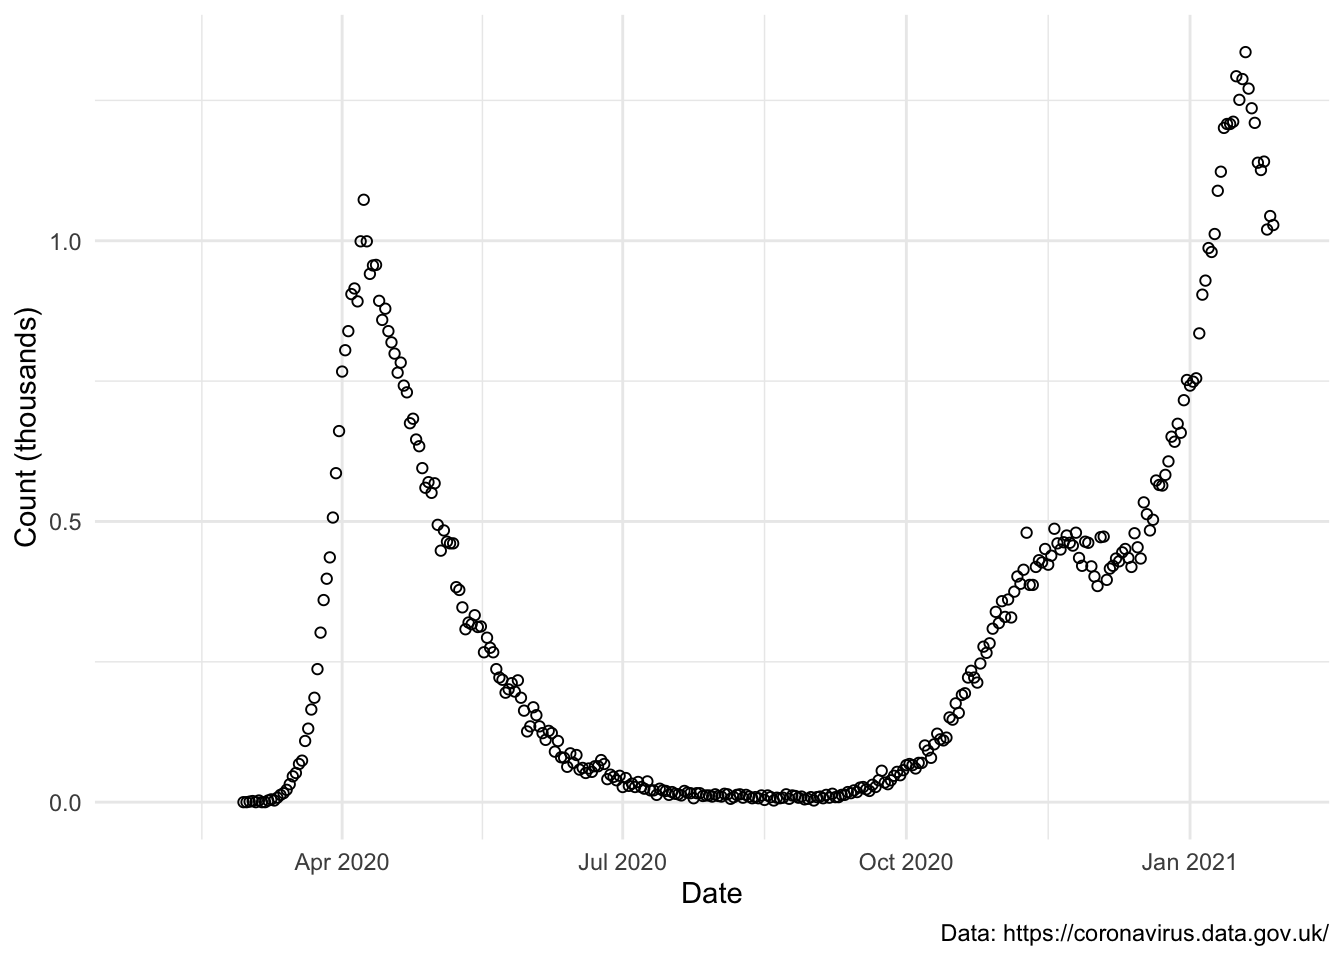
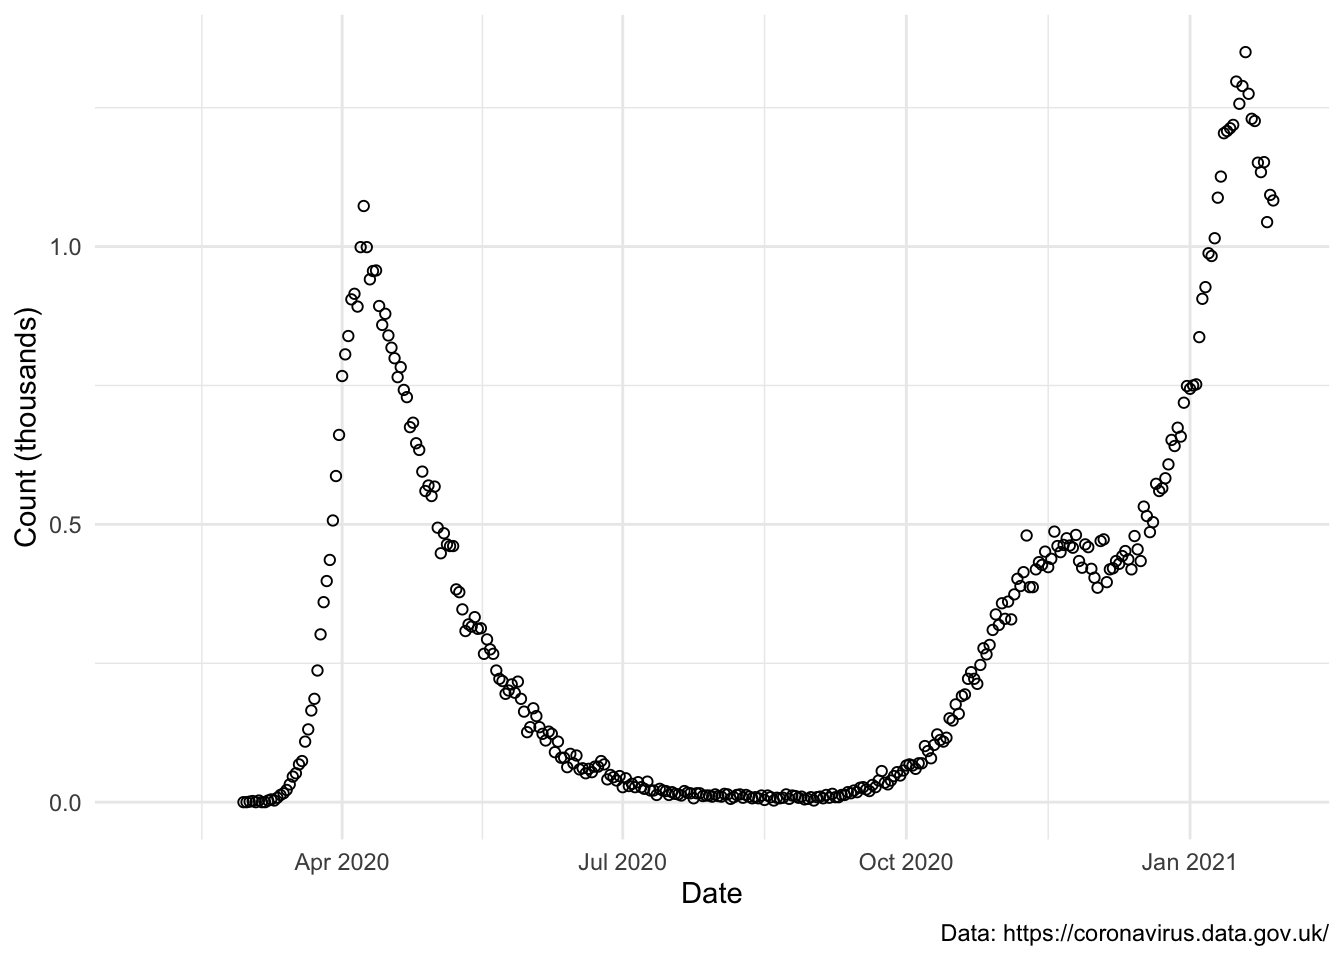
Correct typos in sonify post

diff --git a/content/post/2021-02-02-sonify-covid.html b/content/post/2021-02-02-sonify-covid.html
@@ -13,8 +13,7 @@ tags:
 draft: no
 ---
 
-<script src="/rmarkdown-libs/jquery/jquery.min.js"></script>
-<script src="/rmarkdown-libs/elevate-section-attrs/elevate-section-attrs.js"></script>
+<script src="/rmarkdown-libs/header-attrs/header-attrs.js"></script>
 
 
 <div class="figure">
@@ -64,19 +63,19 @@ range(data$date)</code></pre>
 <p>I read this into R as a <code>data.frame</code> object with one row per day.</p>
 <pre class="r"><code>tail(data[, c(1, 5:8)])</code></pre>
 <pre><code>##          date newCasesBySpecimenDate newDeaths28DaysByDeathDate newAdmissions
-## 13 2021-01-23                  21841                       1139          3098
-## 12 2021-01-24                  17190                       1126          3107
-## 11 2021-01-25                  29879                       1141          2917
-## 10 2021-01-26                  27033                       1020          3127
-## 9  2021-01-27                  25709                       1044          3043
-## 8  2021-01-28                  24049                       1028          3029
+## 18 2021-01-23                  21851                       1151          3100
+## 17 2021-01-24                  17191                       1134          3109
+## 16 2021-01-25                  29976                       1152          2925
+## 15 2021-01-26                  27036                       1044          3136
+## 14 2021-01-27                  25720                       1093          3050
+## 13 2021-01-28                  24092                       1083          3039
 ##    newVirusTests
-## 13        484485
-## 12        412204
-## 11        542893
-## 10        596845
-## 9         771710
-## 8         753031</code></pre>
+## 18        484485
+## 17        412204
+## 16        542893
+## 15        596845
+## 14        771710
+## 13        753031</code></pre>
 <p>How quickly a year goes.</p>
 </div>
 <div id="av-functions" class="section level1">
@@ -105,7 +104,7 @@ purrr::walk(names(data[5:8]), sonify_covid)</code></pre>
 </div>
 <div id="visual" class="section level2">
 <h2>Visual</h2>
-<p>The plots are going to be intentionally sparse because the focus of the post is the <em>sound</em> the data make. You’ll be able to follow how the visuals map to the sound The function takes a COVID-19 variable from our dataset and plots it over time with {gpplot2}.</p>
+<p>I’m including plots so you can follow how the visuals map to the sound. The plots are going to be intentionally sparse because the focus of the post is the <em>sound</em> the data make. The function takes a COVID-19 variable from our dataset and plots it over time with {ggplot2}.</p>
 <pre class="r"><code>library(ggplot2)  # attach plotting package
 
 plot_covid &lt;- function(y) {
@@ -122,7 +121,7 @@ plot_covid &lt;- function(y) {
     theme_minimal()
   
 }</code></pre>
-<p>You can then pass in the variable like <code>plot_covid(newAdmissions)</code>, although I’ve hidden this code in the next section. I also used the new <code>fig.alt</code> chunk option in R Markdown to provide a short piece of alt text to describe the plot content.</p>
+<p>You can then pass in the variable like <code>plot_covid(newAdmissions)</code>, although I’ve hidden this code in the next section.</p>
 </div>
 </div>
 <div id="sonified" class="section level1">
@@ -138,7 +137,7 @@ plot_covid &lt;- function(y) {
 <source src="/output/sonify-covid/newCasesBySpecimenDate.wav" type="audio/wav">
 </audio>
 </html>
-<p><img src="/post/2021-02-02-sonify-covid_files/figure-html/unnamed-chunk-6-1.png" width="672" /></p>
+<p><img src="/post/2021-02-02-sonify-covid_files/figure-html/unnamed-chunk-6-1.png" title="Scatter chart of COVID-19 cases over time. There's a small bump to about 5000 cases per day in early April 2020 and then a peak around 30,000 cases in November, before a large spike to around 80,000 cases at the start of 2021." alt="Scatter chart of COVID-19 cases over time. There's a small bump to about 5000 cases per day in early April 2020 and then a peak around 30,000 cases in November, before a large spike to around 80,000 cases at the start of 2021." width="672" /></p>
 </div>
 <div id="death" class="section level2">
 <h2>Death</h2>
@@ -148,7 +147,7 @@ plot_covid &lt;- function(y) {
 <source src="/output/sonify-covid/newDeaths28DaysByDeathDate.wav" type="audio/wav">
 </audio>
 </html>
-<p><img src="/post/2021-02-02-sonify-covid_files/figure-html/unnamed-chunk-7-1.png" width="672" /></p>
+<p><img src="/post/2021-02-02-sonify-covid_files/figure-html/unnamed-chunk-7-1.png" title="Scatter chart of COVID-19 deaths over time. There's a spike at 1000 cases at the start of April 2020, before it comes back down to almost zero by September, before rising to 500 before December, then spiking at 1500 at the start of 2021." alt="Scatter chart of COVID-19 deaths over time. There's a spike at 1000 cases at the start of April 2020, before it comes back down to almost zero by September, before rising to 500 before December, then spiking at 1500 at the start of 2021." width="672" /></p>
 </div>
 <div id="healthcare" class="section level2">
 <h2>Healthcare</h2>
@@ -158,7 +157,7 @@ plot_covid &lt;- function(y) {
 <source src="/output/sonify-covid/newAdmissions.wav" type="audio/wav">
 </audio>
 </html>
-<p><img src="/post/2021-02-02-sonify-covid_files/figure-html/unnamed-chunk-8-1.png" width="672" /></p>
+<p><img src="/post/2021-02-02-sonify-covid_files/figure-html/unnamed-chunk-8-1.png" title="Scatter chart of COVID-19 hospital admissions over time. There's a spike at 3500 cases at the start of April 2020, before it comes back down to almost zero by September, before rising to 2000 before December, then spiking at 4500 at the start of 2021." alt="Scatter chart of COVID-19 hospital admissions over time. There's a spike at 3500 cases at the start of April 2020, before it comes back down to almost zero by September, before rising to 2000 before December, then spiking at 4500 at the start of 2021." width="672" /></p>
 </div>
 <div id="testing" class="section level2">
 <h2>Testing</h2>
@@ -168,7 +167,7 @@ plot_covid &lt;- function(y) {
 <source src="/output/sonify-covid/newVirusTests.wav" type="audio/wav">
 </audio>
 </html>
-<p><img src="/post/2021-02-02-sonify-covid_files/figure-html/unnamed-chunk-9-1.png" width="672" /></p>
+<p><img src="/post/2021-02-02-sonify-covid_files/figure-html/unnamed-chunk-9-1.png" title="Scatter chart of COVID-19 tests over time. The value climbs from zero at the end of April 2020 to nearly 800 by the end of January 2021." alt="Scatter chart of COVID-19 tests over time. The value climbs from zero at the end of April 2020 to nearly 800 by the end of January 2021." width="672" /></p>
 </div>
 </div>
 <div id="coda" class="section level1">
@@ -183,59 +182,59 @@ Session info
 </summary>
 <pre><code>## ─ Session info ───────────────────────────────────────────────────────────────
 ##  setting  value                       
-##  version  R version 3.6.0 (2019-04-26)
+##  version  R version 4.0.2 (2020-06-22)
 ##  os       macOS  10.16                
-##  system   x86_64, darwin15.6.0        
+##  system   x86_64, darwin17.0          
 ##  ui       X11                         
 ##  language (EN)                        
 ##  collate  en_GB.UTF-8                 
 ##  ctype    en_GB.UTF-8                 
 ##  tz       Europe/London               
-##  date     2021-02-06                  
+##  date     2021-02-10                  
 ## 
 ## ─ Packages ───────────────────────────────────────────────────────────────────
-##  package     * version date       lib source        
-##  assertthat    0.2.1   2019-03-21 [1] CRAN (R 3.6.0)
-##  blogdown      0.12    2019-05-01 [1] CRAN (R 3.6.0)
-##  bookdown      0.10    2019-05-10 [1] CRAN (R 3.6.0)
-##  cli           2.0.2   2020-02-28 [1] CRAN (R 3.6.0)
-##  colorspace    1.4-1   2019-03-18 [1] CRAN (R 3.6.0)
-##  crayon        1.3.4   2017-09-16 [1] CRAN (R 3.6.0)
-##  digest        0.6.25  2020-02-23 [1] CRAN (R 3.6.0)
-##  dplyr         0.8.3   2019-07-04 [1] CRAN (R 3.6.0)
-##  ellipsis      0.3.1   2020-05-15 [1] CRAN (R 3.6.2)
-##  evaluate      0.14    2019-05-28 [1] CRAN (R 3.6.0)
-##  fansi         0.4.1   2020-01-08 [1] CRAN (R 3.6.0)
-##  farver        2.0.1   2019-11-13 [1] CRAN (R 3.6.0)
-##  ggplot2     * 3.2.1   2019-08-10 [1] CRAN (R 3.6.0)
-##  glue          1.4.1   2020-05-13 [1] CRAN (R 3.6.2)
-##  gtable        0.3.0   2019-03-25 [1] CRAN (R 3.6.0)
-##  htmltools     0.4.0   2019-10-04 [1] CRAN (R 3.6.0)
-##  knitr         1.26    2019-11-12 [1] CRAN (R 3.6.0)
-##  labeling      0.3     2014-08-23 [1] CRAN (R 3.6.0)
-##  lazyeval      0.2.2   2019-03-15 [1] CRAN (R 3.6.0)
-##  lifecycle     0.2.0   2020-03-06 [1] CRAN (R 3.6.0)
-##  magrittr      1.5     2014-11-22 [1] CRAN (R 3.6.0)
-##  munsell       0.5.0   2018-06-12 [1] CRAN (R 3.6.0)
-##  pillar        1.4.4   2020-05-05 [1] CRAN (R 3.6.2)
-##  pkgconfig     2.0.3   2019-09-22 [1] CRAN (R 3.6.0)
-##  purrr         0.3.3   2019-10-18 [1] CRAN (R 3.6.0)
-##  R6            2.4.1   2019-11-12 [1] CRAN (R 3.6.0)
-##  Rcpp          1.0.3   2019-11-08 [1] CRAN (R 3.6.0)
-##  rlang         0.4.6   2020-05-02 [1] CRAN (R 3.6.2)
-##  rmarkdown     2.0     2019-12-12 [1] CRAN (R 3.6.0)
-##  scales        1.1.0   2019-11-18 [1] CRAN (R 3.6.0)
-##  sessioninfo   1.1.1   2018-11-05 [1] CRAN (R 3.6.0)
-##  stringi       1.4.5   2020-01-11 [1] CRAN (R 3.6.0)
-##  stringr       1.4.0   2019-02-10 [1] CRAN (R 3.6.0)
-##  tibble        3.0.1   2020-04-20 [1] CRAN (R 3.6.2)
-##  tidyselect    0.2.5   2018-10-11 [1] CRAN (R 3.6.0)
-##  vctrs         0.3.0   2020-05-11 [1] CRAN (R 3.6.2)
-##  withr         2.2.0   2020-04-20 [1] CRAN (R 3.6.2)
-##  xfun          0.11    2019-11-12 [1] CRAN (R 3.6.0)
-##  yaml          2.2.1   2020-02-01 [1] CRAN (R 3.6.0)
+##  package     * version    date       lib source                            
+##  assertthat    0.2.1      2019-03-21 [1] CRAN (R 4.0.0)                    
+##  blogdown      0.21       2020-10-11 [1] CRAN (R 4.0.2)                    
+##  bookdown      0.21       2020-10-13 [1] CRAN (R 4.0.2)                    
+##  cli           2.2.0      2020-11-20 [1] CRAN (R 4.0.2)                    
+##  colorspace    2.0-0      2020-11-11 [1] CRAN (R 4.0.2)                    
+##  crayon        1.3.4      2017-09-16 [1] CRAN (R 4.0.0)                    
+##  digest        0.6.27     2020-10-24 [1] CRAN (R 4.0.2)                    
+##  dplyr         1.0.2      2020-08-18 [1] CRAN (R 4.0.2)                    
+##  ellipsis      0.3.1      2020-05-15 [1] CRAN (R 4.0.0)                    
+##  evaluate      0.14       2019-05-28 [1] CRAN (R 4.0.0)                    
+##  fansi         0.4.1      2020-01-08 [1] CRAN (R 4.0.0)                    
+##  farver        2.0.3      2020-01-16 [1] CRAN (R 4.0.0)                    
+##  generics      0.1.0      2020-10-31 [1] CRAN (R 4.0.2)                    
+##  ggplot2     * 3.3.2      2020-06-19 [1] CRAN (R 4.0.2)                    
+##  glue          1.4.2      2020-08-27 [1] CRAN (R 4.0.2)                    
+##  gtable        0.3.0      2019-03-25 [1] CRAN (R 4.0.0)                    
+##  highr         0.8        2019-03-20 [1] CRAN (R 4.0.0)                    
+##  htmltools     0.5.1.9000 2021-01-17 [1] Github (rstudio/htmltools@11cfbf3)
+##  knitr         1.31       2021-01-27 [1] CRAN (R 4.0.2)                    
+##  labeling      0.4.2      2020-10-20 [1] CRAN (R 4.0.2)                    
+##  lifecycle     0.2.0      2020-03-06 [1] CRAN (R 4.0.0)                    
+##  magrittr      2.0.1      2020-11-17 [1] CRAN (R 4.0.2)                    
+##  munsell       0.5.0      2018-06-12 [1] CRAN (R 4.0.0)                    
+##  pillar        1.4.7      2020-11-20 [1] CRAN (R 4.0.2)                    
+##  pkgconfig     2.0.3      2019-09-22 [1] CRAN (R 4.0.0)                    
+##  purrr         0.3.4      2020-04-17 [1] CRAN (R 4.0.0)                    
+##  R6            2.5.0      2020-10-28 [1] CRAN (R 4.0.2)                    
+##  rlang         0.4.10     2020-12-30 [1] CRAN (R 4.0.2)                    
+##  rmarkdown     2.6        2020-12-14 [1] CRAN (R 4.0.2)                    
+##  scales        1.1.1      2020-05-11 [1] CRAN (R 4.0.0)                    
+##  sessioninfo   1.1.1      2018-11-05 [1] CRAN (R 4.0.0)                    
+##  stringi       1.5.3      2020-09-09 [1] CRAN (R 4.0.2)                    
+##  stringr       1.4.0      2019-02-10 [1] CRAN (R 4.0.0)                    
+##  tibble        3.0.4      2020-10-12 [1] CRAN (R 4.0.2)                    
+##  tidyselect    1.1.0      2020-05-11 [1] CRAN (R 4.0.0)                    
+##  vctrs         0.3.6      2020-12-17 [1] CRAN (R 4.0.2)                    
+##  withr         2.4.0      2021-01-16 [1] CRAN (R 4.0.2)                    
+##  xfun          0.20       2021-01-06 [1] CRAN (R 4.0.2)                    
+##  yaml          2.2.1      2020-02-01 [1] CRAN (R 4.0.0)                    
 ## 
-## [1] /Library/Frameworks/R.framework/Versions/3.6/Resources/library</code></pre>
+## [1] /Library/Frameworks/R.framework/Versions/4.0/Resources/library</code></pre>
 </details>
 </div>
 <div class="footnotes">
